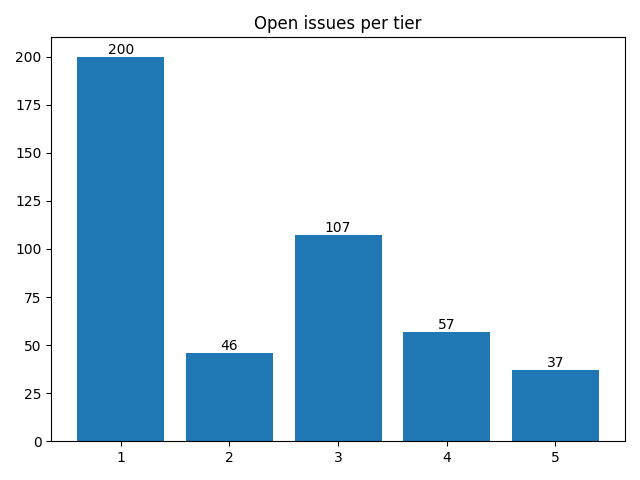
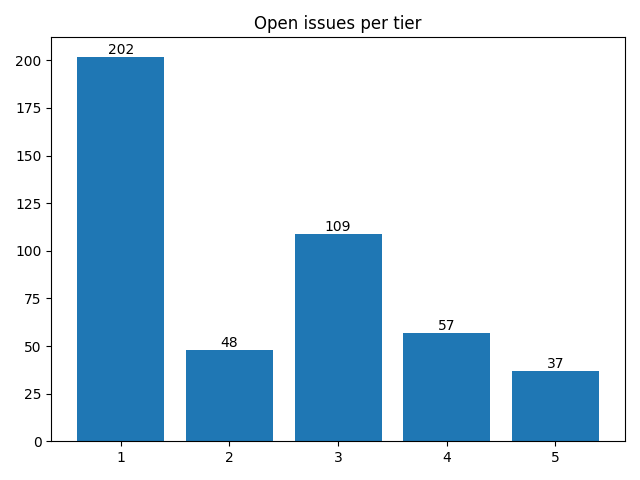
Apply automatic changes

diff --git a/docs/analytics.html b/docs/analytics.html
@@ -79,7 +79,7 @@ td .material-icons { display:inline-flex; vertical-align: top; font-size:1.1rem;
 						</tr>
 						<tr>
 							<td>Mar</td>
-							<td>7</td>
+							<td>13</td>
 							<td>1</td>
 						</tr>
 					</table>
@@ -100,7 +100,7 @@ td .material-icons { display:inline-flex; vertical-align: top; font-size:1.1rem;
 							<td>
 								<a href="http://github.com/notofonts/latin-greek-cyrillic/issues">latin-greek-cyrillic</a>
 							</td>
-							<td>119</td>
+							<td>120</td>
 						</tr>
 						<tr>
 							<td>
@@ -112,7 +112,7 @@ td .material-icons { display:inline-flex; vertical-align: top; font-size:1.1rem;
 							<td>
 								<a href="http://github.com/notofonts/arabic/issues">arabic</a>
 							</td>
-							<td>17</td>
+							<td>18</td>
 						</tr>
 						<tr>
 							<td>
@@ -177,19 +177,19 @@ td .material-icons { display:inline-flex; vertical-align: top; font-size:1.1rem;
 				<tr>
 					<td>2</td>
 					<td>
-						<a href="http://github.com/notofonts/adlam/issues">adlam</a>,  						<a href="http://github.com/notofonts/coptic/issues">coptic</a>,  						<a href="http://github.com/notofonts/cuneiform/issues">cuneiform</a>,  						<a href="http://github.com/notofonts/georgian/issues">georgian</a>,  						<a href="http://github.com/notofonts/khmer/issues">khmer</a>,  						<a href="http://github.com/notofonts/mandaic/issues">mandaic</a>,  						<a href="http://github.com/notofonts/music/issues">music</a>,  						<a href="http://github.com/notofonts/old-hungarian-ui/issues">old-hungarian-ui</a>,  						<a href="http://github.com/notofonts/sundanese/issues">sundanese</a>,  						<a href="http://github.com/notofonts/tagalog/issues">tagalog</a>,  						<a href="http://github.com/notofonts/tamil/issues">tamil</a>,  						<a href="http://github.com/notofonts/telugu/issues">telugu</a> 
+						<a href="http://github.com/notofonts/adlam/issues">adlam</a>,  						<a href="http://github.com/notofonts/coptic/issues">coptic</a>,  						<a href="http://github.com/notofonts/cuneiform/issues">cuneiform</a>,  						<a href="http://github.com/notofonts/georgian/issues">georgian</a>,  						<a href="http://github.com/notofonts/khmer/issues">khmer</a>,  						<a href="http://github.com/notofonts/mandaic/issues">mandaic</a>,  						<a href="http://github.com/notofonts/music/issues">music</a>,  						<a href="http://github.com/notofonts/old-hungarian-ui/issues">old-hungarian-ui</a>,  						<a href="http://github.com/notofonts/tagalog/issues">tagalog</a>,  						<a href="http://github.com/notofonts/tamil/issues">tamil</a>,  						<a href="http://github.com/notofonts/telugu/issues">telugu</a> 
 					</td>
 				</tr>
 				<tr>
 					<td>3</td>
 					<td>
-						<a href="http://github.com/notofonts/balinese/issues">balinese</a>,  						<a href="http://github.com/notofonts/inscriptional-parthian/issues">inscriptional-parthian</a>,  						<a href="http://github.com/notofonts/javanese/issues">javanese</a>,  						<a href="http://github.com/notofonts/kaithi/issues">kaithi</a>,  						<a href="http://github.com/notofonts/manichaean/issues">manichaean</a>,  						<a href="http://github.com/notofonts/siddham/issues">siddham</a>,  						<a href="http://github.com/notofonts/tangut/issues">tangut</a>,  						<a href="http://github.com/notofonts/thai/issues">thai</a>,  						<a href="http://github.com/notofonts/tifinagh/issues">tifinagh</a>,  						<a href="http://github.com/notofonts/znamenny/issues">znamenny</a> 
+						<a href="http://github.com/notofonts/inscriptional-parthian/issues">inscriptional-parthian</a>,  						<a href="http://github.com/notofonts/kaithi/issues">kaithi</a>,  						<a href="http://github.com/notofonts/manichaean/issues">manichaean</a>,  						<a href="http://github.com/notofonts/siddham/issues">siddham</a>,  						<a href="http://github.com/notofonts/sundanese/issues">sundanese</a>,  						<a href="http://github.com/notofonts/tangut/issues">tangut</a>,  						<a href="http://github.com/notofonts/tifinagh/issues">tifinagh</a>,  						<a href="http://github.com/notofonts/znamenny/issues">znamenny</a> 
 					</td>
 				</tr>
 				<tr>
 					<td>4</td>
 					<td>
-						<a href="http://github.com/notofonts/batak/issues">batak</a>,  						<a href="http://github.com/notofonts/brahmi/issues">brahmi</a>,  						<a href="http://github.com/notofonts/devanagari/issues">devanagari</a>,  						<a href="http://github.com/notofonts/old-uyghur/issues">old-uyghur</a>,  						<a href="http://github.com/notofonts/sharada/issues">sharada</a>,  						<a href="http://github.com/notofonts/soyombo/issues">soyombo</a> 
+						<a href="http://github.com/notofonts/balinese/issues">balinese</a>,  						<a href="http://github.com/notofonts/batak/issues">batak</a>,  						<a href="http://github.com/notofonts/brahmi/issues">brahmi</a>,  						<a href="http://github.com/notofonts/devanagari/issues">devanagari</a>,  						<a href="http://github.com/notofonts/javanese/issues">javanese</a>,  						<a href="http://github.com/notofonts/old-uyghur/issues">old-uyghur</a>,  						<a href="http://github.com/notofonts/sharada/issues">sharada</a>,  						<a href="http://github.com/notofonts/soyombo/issues">soyombo</a>,  						<a href="http://github.com/notofonts/thai/issues">thai</a> 
 					</td>
 				</tr>
 				<tr>
@@ -240,9 +240,9 @@ td .material-icons { display:inline-flex; vertical-align: top; font-size:1.1rem;
 						<tr>
 							<td>1</td>
 							<td>
-									<a href="http://github.com/notofonts/latin-greek-cyrillic/issues">latin-greek-cyrillic</a>: 119, 
+									<a href="http://github.com/notofonts/latin-greek-cyrillic/issues">latin-greek-cyrillic</a>: 120, 
 
-									<a href="http://github.com/notofonts/arabic/issues">arabic</a>: 17, 
+									<a href="http://github.com/notofonts/arabic/issues">arabic</a>: 18, 
 
 									<a href="http://github.com/notofonts/hebrew/issues">hebrew</a>: 15, 
 
@@ -274,9 +274,9 @@ td .material-icons { display:inline-flex; vertical-align: top; font-size:1.1rem;
 							<td>
 									<a href="http://github.com/notofonts/myanmar/issues">myanmar</a>: 32, 
 
-									<a href="http://github.com/notofonts/balinese/issues">balinese</a>: 3, 
+									<a href="http://github.com/notofonts/balinese/issues">balinese</a>: 4, 
 
-									<a href="http://github.com/notofonts/thai/issues">thai</a>: 3, 
+									<a href="http://github.com/notofonts/thai/issues">thai</a>: 4, 
 
 									<a href="http://github.com/notofonts/adlam/issues">adlam</a>: 2, 
 
@@ -310,19 +310,19 @@ td .material-icons { display:inline-flex; vertical-align: top; font-size:1.1rem;
 
 									<a href="http://github.com/notofonts/batak/issues">batak</a>: 4, 
 
+									<a href="http://github.com/notofonts/javanese/issues">javanese</a>: 4, 
+
 									<a href="http://github.com/notofonts/sharada/issues">sharada</a>: 4, 
 
-									<a href="http://github.com/notofonts/javanese/issues">javanese</a>: 3, 
-
 									<a href="http://github.com/notofonts/siddham/issues">siddham</a>: 3, 
+
+									<a href="http://github.com/notofonts/sundanese/issues">sundanese</a>: 3, 
 
 									<a href="http://github.com/notofonts/tifinagh/issues">tifinagh</a>: 3, 
 
 									<a href="http://github.com/notofonts/coptic/issues">coptic</a>: 2, 
 
 									<a href="http://github.com/notofonts/music/issues">music</a>: 2, 
-
-									<a href="http://github.com/notofonts/sundanese/issues">sundanese</a>: 2, 
 
 									<a href="http://github.com/notofonts/tagalog/issues">tagalog</a>: 2, 
 
